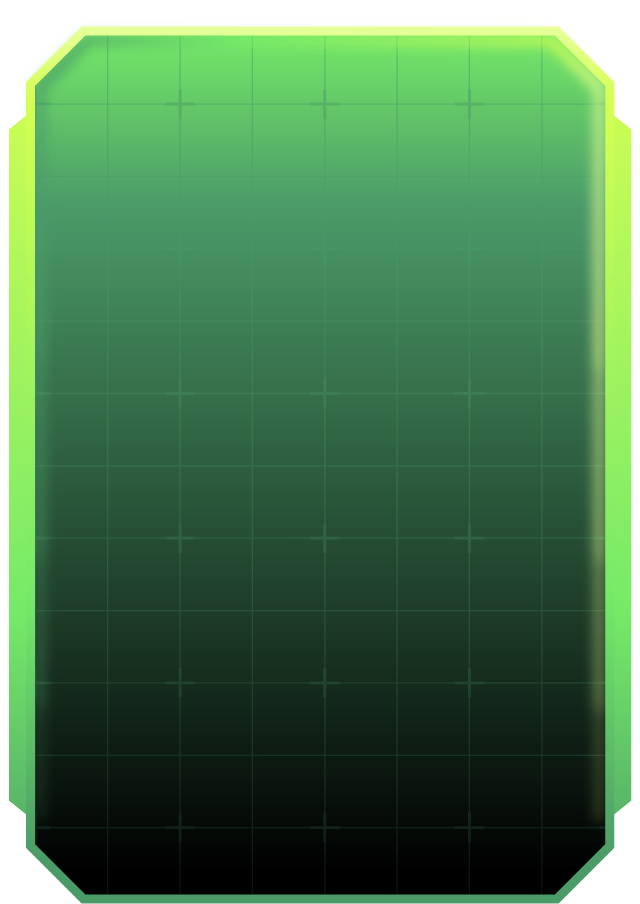
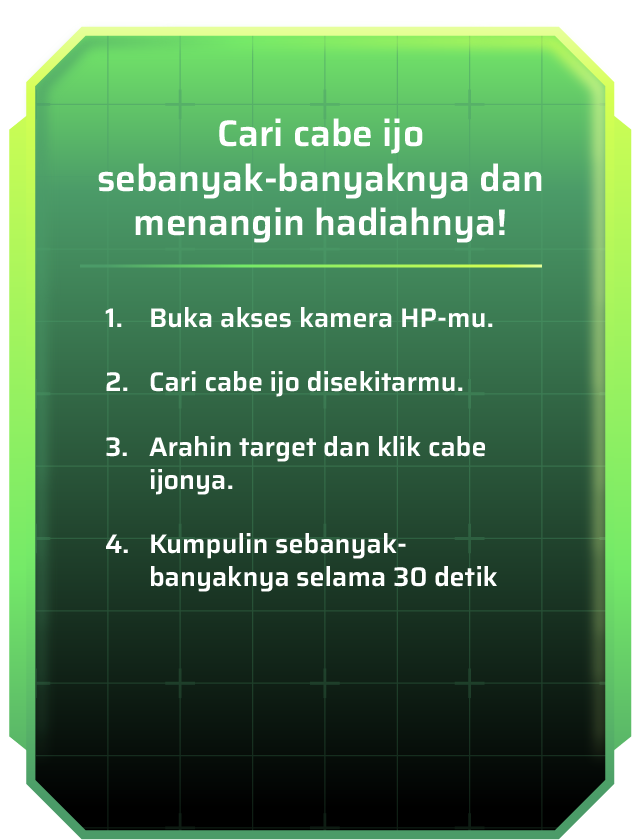
Replace intro page panel & button with new image assets
- panel_petunjuk.png replaces HTML text + old panel background
- button_petunjuk.png replaces btn_mulai_main.png
- Simplified intro layout: logo → panel image → button image
- Responsive via gap/width clamp for small phones

diff --git a/public/css/hud.css b/public/css/hud.css
@@ -463,14 +463,13 @@
 
 /* HOME SCREEN */
 .home-card {
-  width: min(82vw, 330px);
-  max-width: 330px;
-  max-height: calc(100dvh - 28px);
+  width: min(88vw, 390px);
+  max-width: 390px;
+  max-height: calc(100dvh - 16px);
   overflow: visible;
   padding: 0;
   border: none;
   border-radius: 0;
-  color: white;
   background: transparent;
   box-shadow: none;
   backdrop-filter: none;
@@ -478,118 +477,40 @@
   display: flex;
   flex-direction: column;
   align-items: center;
+  gap: clamp(8px, 2dvh, 18px);
 }
 
 .home-logo-image {
-  width: min(72vw, 260px);
+  width: min(82vw, 340px);
   height: auto;
-  margin-bottom: clamp(4px, 1.5dvh, 14px);
   display: block;
-  filter: drop-shadow(0 10px 16px rgba(0, 0, 0, 0.34));
+  filter: drop-shadow(0 10px 20px rgba(0, 0, 0, 0.45));
 }
 
-.home-brand-image {
-  width: clamp(58px, 18vw, 74px);
-  height: auto;
-  margin-bottom: clamp(2px, 1dvh, 8px);
-  display: block;
-  filter: drop-shadow(0 10px 16px rgba(0, 0, 0, 0.34));
-}
-
-.home-title-image {
-  width: min(70vw, 248px);
-  height: auto;
-  margin-bottom: -12px;
-  display: block;
-  filter: drop-shadow(0 14px 14px rgba(0, 0, 0, 0.5));
-}
-
-.home-ribbon-image {
-  position: relative;
-  z-index: 2;
-  width: min(30vw, 118px);
-  height: auto;
-  margin-top: 14px;
-  margin-bottom: -36px;
-  display: block;
-}
-
-.home-panel {
+.home-panel-image {
   width: 100%;
-  aspect-ratio: 640 / 904;
-  margin: 0;
-  padding: clamp(64px, 12dvh, 92px) clamp(38px, 10vw, 54px) clamp(28px, 5dvh, 42px);
-  border: none;
-  border-radius: 0;
-  text-align: center;
-  background: url("../assets/ui/panel_petunjuk.png") center / 100% 100% no-repeat;
-  box-shadow: none;
-  clip-path: none;
-  font-family: "Saira", Arial, Helvetica, sans-serif;
-  font-weight: 600;
-}
-
-.home-panel .intro-desc {
-  margin: 0 auto 8px;
-  padding-bottom: 0;
-  color: #ffffff;
-  font-size: clamp(12px, 3.4vw, 14px);
-  line-height: 1.18;
-  font-weight: 600;
-}
-
-.home-panel-line {
-  width: 100%;
-  height: 4px;
-  margin: 0 auto 14px;
+  height: auto;
   display: block;
-}
-
-.home-steps {
-  margin: 0;
-  padding: 0;
-  list-style: none;
-  counter-reset: home-step;
-  text-align: left;
-}
-
-.home-steps li {
-  counter-increment: home-step;
-  position: relative;
-  min-height: 32px;
-  margin-bottom: 11px;
-  padding-left: 28px;
-  color: #ffffff;
-  font-size: clamp(10px, 3vw, 12px);
-  line-height: 1.14;
-  font-weight: 600;
-}
-
-.home-steps li::before {
-  content: counter(home-step) ".";
-  position: absolute;
-  left: 0;
-  top: 0;
-  width: 20px;
-  text-align: right;
+  filter: drop-shadow(0 8px 18px rgba(0, 0, 0, 0.35));
 }
 
 .home-start-btn {
-  width: min(100%, 220px);
+  width: min(78%, 240px);
   min-height: 0;
   height: auto;
-  margin-top: clamp(8px, 2dvh, 14px);
   padding: 0;
+  border: none;
   border-radius: 0;
   background: transparent;
   box-shadow: none;
+  cursor: pointer;
 }
 
 .home-start-image {
   width: 100%;
   height: auto;
   display: block;
-  filter: drop-shadow(0 7px 0 rgba(0, 0, 0, 0.28));
+  filter: drop-shadow(0 6px 0 rgba(0, 0, 0, 0.30));
 }
 
 /* RESULT */
@@ -1604,29 +1525,17 @@
   }
 
   .home-card {
-    width: min(78vw, 300px);
-    max-height: calc(100dvh - 20px);
+    width: min(84vw, 320px);
+    max-height: calc(100dvh - 12px);
+    gap: clamp(6px, 1.5dvh, 12px);
   }
 
-  .home-brand-image {
-    width: clamp(48px, 15vw, 62px);
-    margin-bottom: 2px;
+  .home-logo-image {
+    width: min(78vw, 280px);
   }
 
-  .home-title-image {
-    width: min(62vw, 218px);
-    margin-bottom: -10px;
-  }
-
-  .home-ribbon-image {
-    width: min(28vw, 96px);
-    margin-top: 10px;
-    margin-bottom: -30px;
-  }
-
-  .home-panel {
-    padding-top: clamp(56px, 11dvh, 74px);
-    padding-bottom: clamp(22px, 4dvh, 32px);
+  .home-start-btn {
+    width: min(72%, 200px);
   }
 
   .aim-area {

diff --git a/src/components/OverlayUI.tsx b/src/components/OverlayUI.tsx
@@ -358,41 +358,16 @@ export function OverlayUI() {
       <section id="introScreen" className={`screen${isIntro ? ' active' : ''}`}>
         <img src={asset('assets/ui/bg_home.png')} alt="" className="home-bg-image" aria-hidden="true" />
         <div className="intro-card home-card">
-          <img src={asset('assets/ui/logo_share_result.png')} alt="Cari Cabe Ijo" className="home-logo-image" />
-          <img src={asset('assets/ui/ribbon_the_game.png')}    alt="The Game"      className="home-ribbon-image" />
-
-          <div className="how-to-box home-panel">
-            <p className="intro-desc">
-              Tangkap cabe ijo sebanyak-banyaknya dalam <b>30 detik</b>!
-              Gerakkan HP-mu untuk mencari, arahkan aim ke cabe, lalu tekan tombol <b>TANGKAP!</b>
-            </p>
-            <img
-              src={asset('assets/ui/line_header_panel_petunjuk.png')}
-              alt=""
-              className="home-panel-line"
-              aria-hidden="true"
-            />
-            <ul className="home-steps">
-              <li>Izinkan akses kamera dan AR</li>
-              <li>Gerakkan kamera untuk menemukan Cabe Ijo</li>
-              <li>Arahkan lingkaran aim tepat ke cabe</li>
-              <li>Tekan tombol TANGKAP! untuk menangkap</li>
-              <li>Kumpulkan sebanyak mungkin dalam 30 detik!</li>
-            </ul>
-            <button
-              id="startBtn"
-              className="primary-btn home-start-btn"
-              aria-label="Mulai Main"
-              onClick={handleStart}
-            >
-              <img
-                src={asset('assets/ui/btn_mulai_main.png')}
-                alt=""
-                className="home-start-image"
-                aria-hidden="true"
-              />
-            </button>
-          </div>
+          <img src={asset('assets/ui/logo_share_result.png')} alt="Cabe Ijo Game" className="home-logo-image" />
+          <img src={asset('assets/ui/panel_petunjuk.png')}    alt="Petunjuk"      className="home-panel-image" />
+          <button
+            id="startBtn"
+            className="home-start-btn"
+            aria-label="Mulai Main"
+            onClick={handleStart}
+          >
+            <img src={asset('assets/ui/button_petunjuk.png')} alt="Mulai Main" className="home-start-image" />
+          </button>
         </div>
       </section>
 
